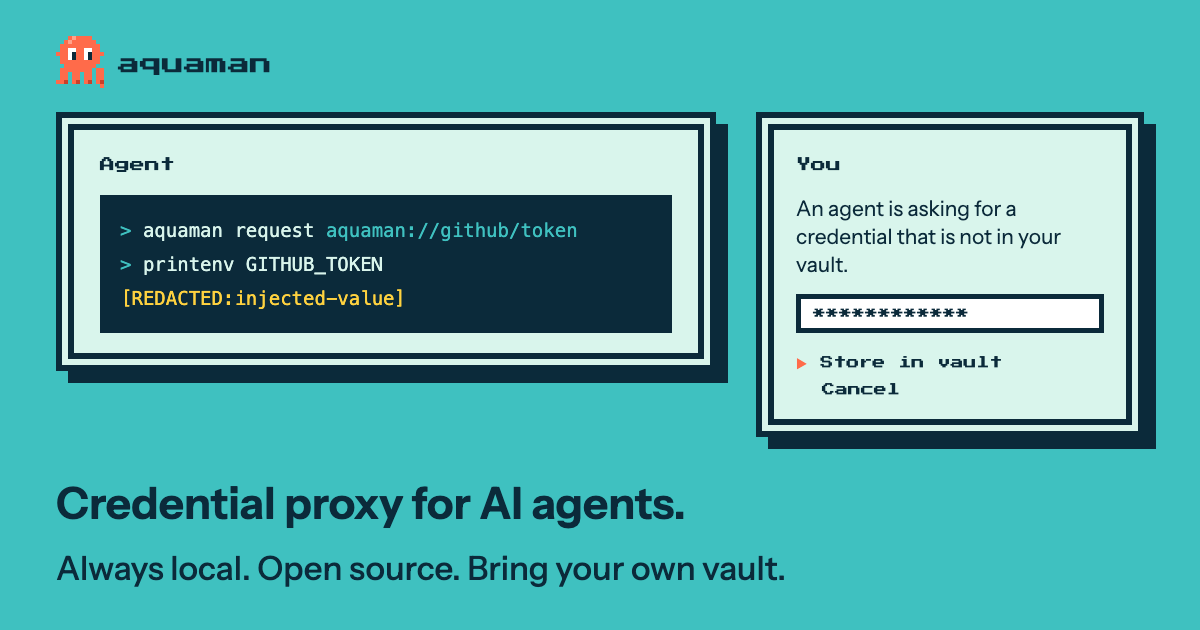
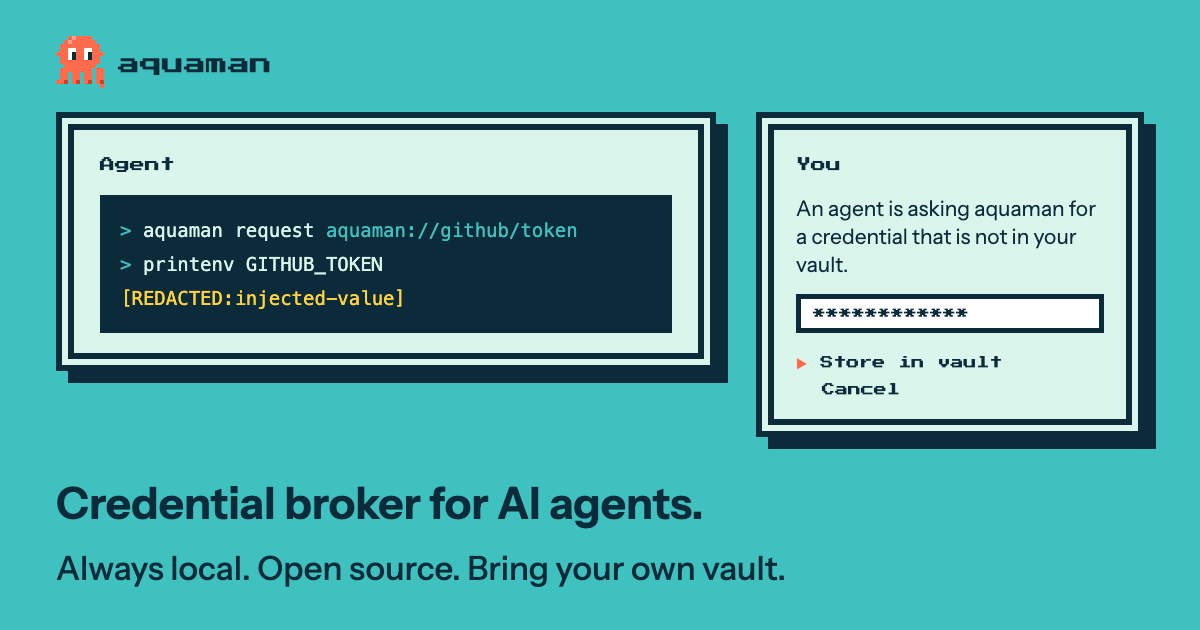
ci: build and smoke-test the credential provider image on every pull request; preview image says broker
A new CI job builds the image from the checkout with its lockfile and checks
that it runs this checkout's daemon as an unprivileged user with the
provider's packages in it. The provider against a real gateway stays in
substrate-compat.yml.

The picture shown when the site's link is shared said "Credential proxy for AI
agents"; it says "broker", and its dialog text matches the real dialog.
`aquaman substrate doctor` no longer suggests a backend the guide does not
cover for a cluster.

Changed region(s): [[0.2775, 0.754, 0.5858, 0.8444], [0.6475, 0.3016, 0.8942, 0.3921], [0.2158, 0.8143, 0.2467, 0.8444]]

diff --git a/website/scripts/og-image.html b/website/scripts/og-image.html
@@ -11,7 +11,7 @@ html,body{margin:0} .c{width:1200px;height:630px;position:relative;overflow:hidd
 <img src="../dist/sprites/icon.svg" style="image-rendering:pixelated;position:absolute;left:56px;top:36px" width="48" height="52"><p class="p abs" style="left:118px;top:48px;font-size:22px">aquaman</p>
 <div class="box" style="left:56px;top:112px;width:660px;padding:36px 38px 32px"><p class="p" style="font-size:15px;margin-bottom:18px">Agent</p><div class="term" style="font-size:19px;padding:18px 20px"><span class="pr">&gt; </span>aquaman request <span class="pr">aquaman://github/token</span><br><span class="pr">&gt; </span>printenv GITHUB_TOKEN<br><span class="mk">[REDACTED:injected-value]</span></div></div>
 <div class="box" style="left:756px;top:112px;width:388px;padding:36px 34px 28px"><p class="p" style="font-size:15px;margin-bottom:18px">You</p>
-<p style="margin:0 0 14px;font-size:21px;line-height:1.35">An agent is asking for a credential that is not in your vault.</p>
+<p style="margin:0 0 14px;font-size:21px;line-height:1.35">An agent is asking aquaman for a credential that is not in your vault.</p>
 <div style="border:5px solid #0b2a3a;background:#fff;padding:8px 12px;font-family:P;font-size:13px;margin-bottom:16px">************</div>
 <p class="p" style="font-size:13px;line-height:2.1"><span style="color:#ff6b4a">&#9654;</span> Store in vault<br>&nbsp;&nbsp;Cancel</p></div>
-<p class="abs" style="left:56px;bottom:100px;font-size:44px;margin:0;font-weight:650">Credential proxy for AI agents.</p><p class="abs" style="left:56px;bottom:42px;font-size:33px;margin:0;font-weight:500">Always local. Open source. Bring your own vault.</p></div>
+<p class="abs" style="left:56px;bottom:100px;font-size:44px;margin:0;font-weight:650">Credential broker for AI agents.</p><p class="abs" style="left:56px;bottom:42px;font-size:33px;margin:0;font-weight:500">Always local. Open source. Bring your own vault.</p></div>

diff --git a/packages/proxy/src/cli/index.ts b/packages/proxy/src/cli/index.ts
@@ -3976,7 +3976,7 @@ substrate
 
     const backend = config.credentials.backend;
     if (backend === 'bitwarden' || backend === 'keychain' || backend === 'keepassxc' || backend === 'keeper') {
-      note(`Backend ${backend} needs a person or a desktop session; in a cluster use vault, 1password with a service account, or encrypted-file`);
+      note(`Backend ${backend} needs a person or a desktop session; in a cluster use vault or encrypted-file`);
     }
 
     console.log('');
